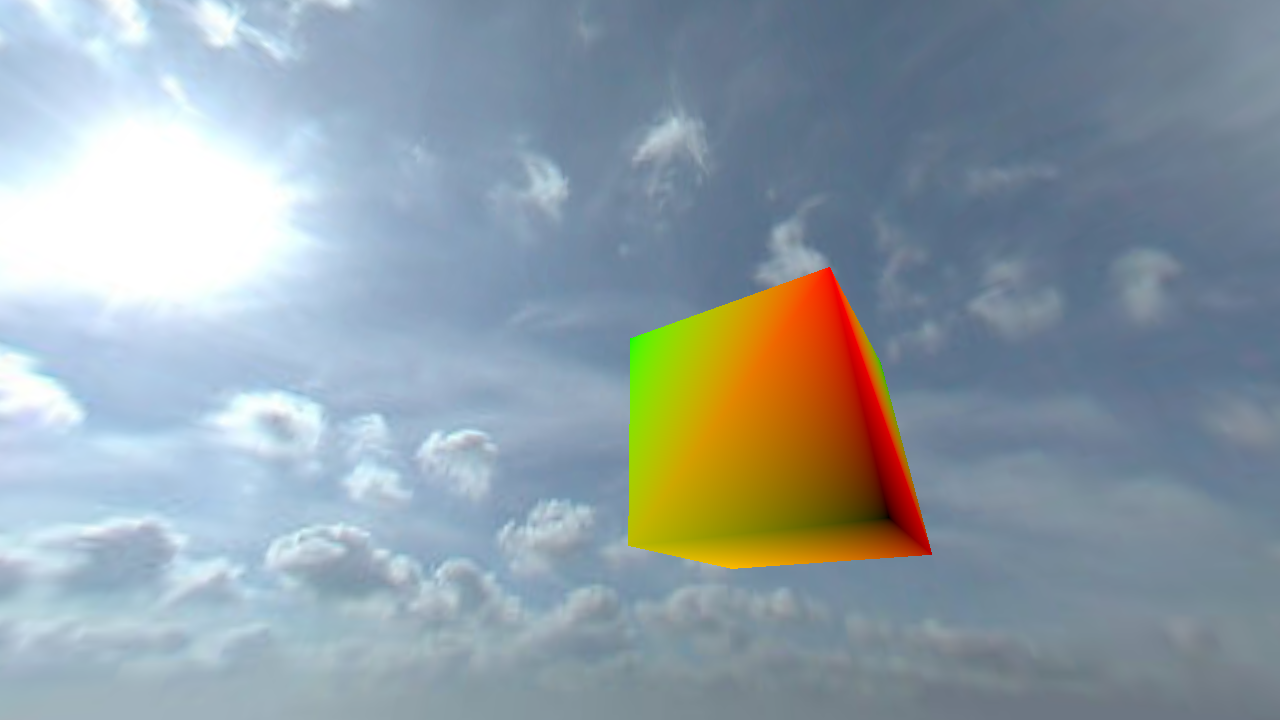
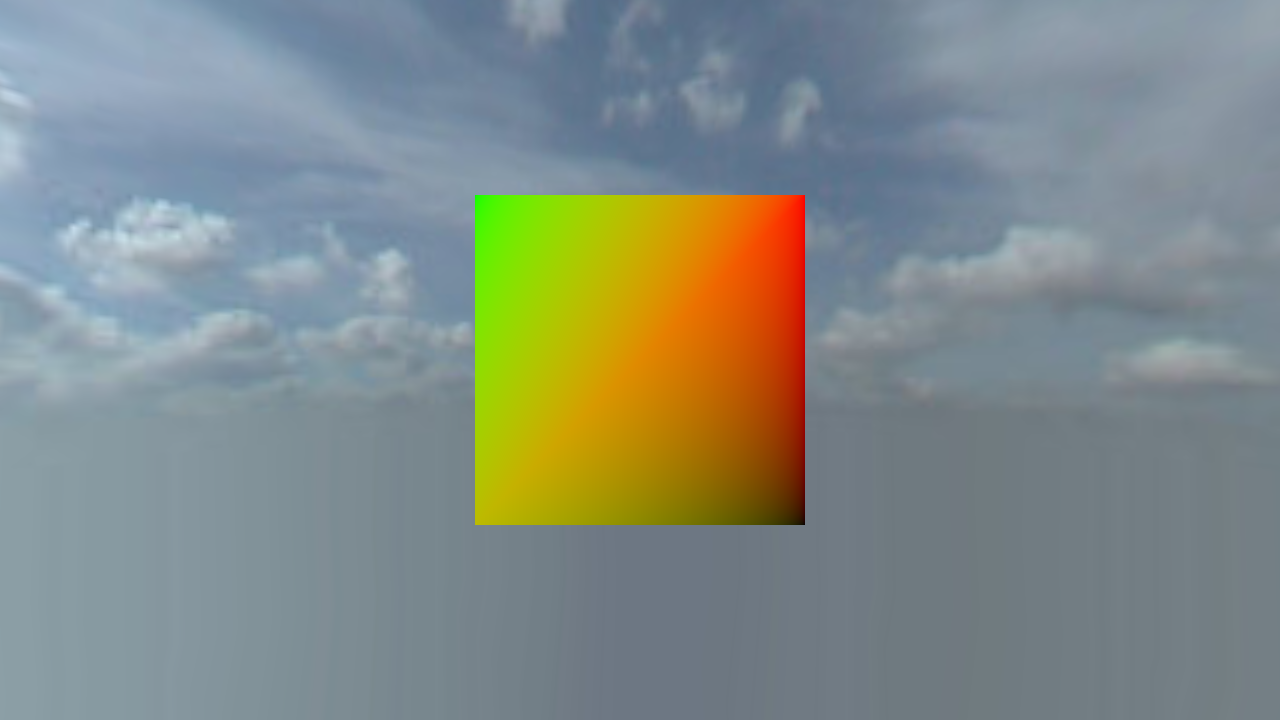
update and fix examples 3,4,10,11

diff --git a/11.RayCastCollision/main.cpp b/11.RayCastCollision/main.cpp
@@ -31,10 +31,6 @@ int main()
 
 	video::IVideoDriver* driver = device->getVideoDriver();
 
-    //! First need to make a material other than default to be able to draw with custom shader
-    video::SGPUMaterial material;
-    material.BackfaceCulling = false; //! Triangles will be visible from both sides
-
 
 
 	scene::ISceneManager* smgr = device->getSceneManager();
@@ -62,11 +58,29 @@ int main()
     };
     auto gputextures = driver->getGPUObjectsFromAssets(cputextures, cputextures+2);
 
-	//! Test Creation Of Builtin
+	//!
+	auto setTextureAndDisableBackfaceCullOnAllMaterials = [](auto* mesh, core::smart_refctd_ptr<video::ITexture>&& texture)
+	{
+		for (auto i=0u; i<mesh->getMeshBufferCount(); i++)
+		{
+			auto& material = mesh->getMeshBuffer(i)->getMaterial();
+			material.BackfaceCulling = false;
+			material.setTexture(0, std::move(texture));
+		}
+	};
+	auto setWireframeOnAllMaterials = [](auto* mesh, bool value)
+	{
+		for (auto i = 0u; i < mesh->getMeshBufferCount(); i++)
+		{
+			auto& material = mesh->getMeshBuffer(i)->getMaterial();
+			material.Wireframe = value;
+		}
+	};
+
+	//!
 	auto* cube = smgr->addCubeSceneNode(1.f,0,-1);
     cube->setRotation(core::vector3df(45,20,15));
-	cube->getMaterial(0u).BackfaceCulling = false;
-    cube->getMaterial(0).setTexture(0,std::move(gputextures->operator[](0u)));
+	setTextureAndDisableBackfaceCullOnAllMaterials(cube->getMesh(), std::move(gputextures->operator[](0u)));
 	core::SCompoundCollider* compound = new core::SCompoundCollider();
 	compound->AddBox(core::SAABoxCollider(cube->getBoundingBox()));
 	core::SColliderData collData;
@@ -76,9 +90,7 @@ int main()
     compound->drop();
 
 	auto* sphere = smgr->addSphereSceneNode(2,32);
-	sphere->getMaterial(0u).BackfaceCulling = false;
-    sphere->getMaterial(0).setTexture(0,std::move(gputextures->operator[](1u)));
-    sphere->getMaterial(0).MaterialType = material.MaterialType;
+	setTextureAndDisableBackfaceCullOnAllMaterials(sphere->getMesh(), std::move(gputextures->operator[](1u)));
     sphere->setPosition(core::vector3df(4,0,0));
 	compound = new core::SCompoundCollider();
 	compound->AddEllipsoid(core::vectorSIMDf(),core::vectorSIMDf(2.f)); //! TODO see why the collider doesn't exactly match up with the mesh
@@ -100,8 +112,9 @@ int main()
 
 		driver->endScene();
 
-        cube->getMaterial(0u).Wireframe = false;
-        sphere->getMaterial(0u).Wireframe = false;
+		setWireframeOnAllMaterials(cube->getMesh(),false);
+		setWireframeOnAllMaterials(sphere->getMesh(),false);
+
         core::vectorSIMDf origin,dir;
         origin.set(camera->getAbsolutePosition());
         dir.set(camera->getTarget());
@@ -110,8 +123,11 @@ int main()
         float outLen;
         if (gCollEng->FastCollide(hitPointData,outLen,origin,dir,10.f))
         {
-            if (hitPointData.attachedNode)
-                hitPointData.attachedNode->getMaterial(0u).Wireframe = true;
+			if (hitPointData.attachedNode)
+			{
+				// I'm sure that the ISceneNode can be cast to IMeshSceneNode
+				setWireframeOnAllMaterials(static_cast<scene::IMeshSceneNode*>(hitPointData.attachedNode)->getMesh(),true);
+			}
         }
 
 		// display frames per second in window title

diff --git a/04.BuiltinNodes/main.cpp b/04.BuiltinNodes/main.cpp
@@ -93,7 +93,7 @@ int main()
 			static_cast<asset::ICPUTexture*>(assetMgr->getAsset("../../media/irrlicht2_dn.jpg", lparams).getContents().first->get()),
 			static_cast<asset::ICPUTexture*>(assetMgr->getAsset("../../media/skydome.jpg", lparams).getContents().first->get())
 		};
-		auto gputextures = driver->getGPUObjectsFromAssets(cputextures, cputextures + 3);
+		auto gputextures = driver->getGPUObjectsFromAssets(cputextures, cputextures + 2);
 
  		cube->getMesh()->getMeshBuffer(0)->getMaterial().setTexture(0, std::move(gputextures->operator[](0u)));
  		sphere->getMesh()->getMeshBuffer(0)->getMaterial().setTexture(0, std::move(gputextures->operator[](1u)));

diff --git a/10.AllocPerfTest/main.cpp b/10.AllocPerfTest/main.cpp
@@ -124,7 +124,7 @@ int main()
 		if (time-lastFPSTime > 1000)
 		{
 		    std::wostringstream sstr;
-		    sstr << L"Builtin Nodes Demo - Irrlicht Engine [" << driver->getName() << "] FPS:" << driver->getFPS();
+		    sstr << L"Alloc Perf Test- Irrlicht Engine [" << driver->getName() << "] K-Allocs/second:" << driver->getFPS()*allocsThisFrame;
 
 			device->setWindowCaption(sstr.str().c_str());
 			lastFPSTime = time;
